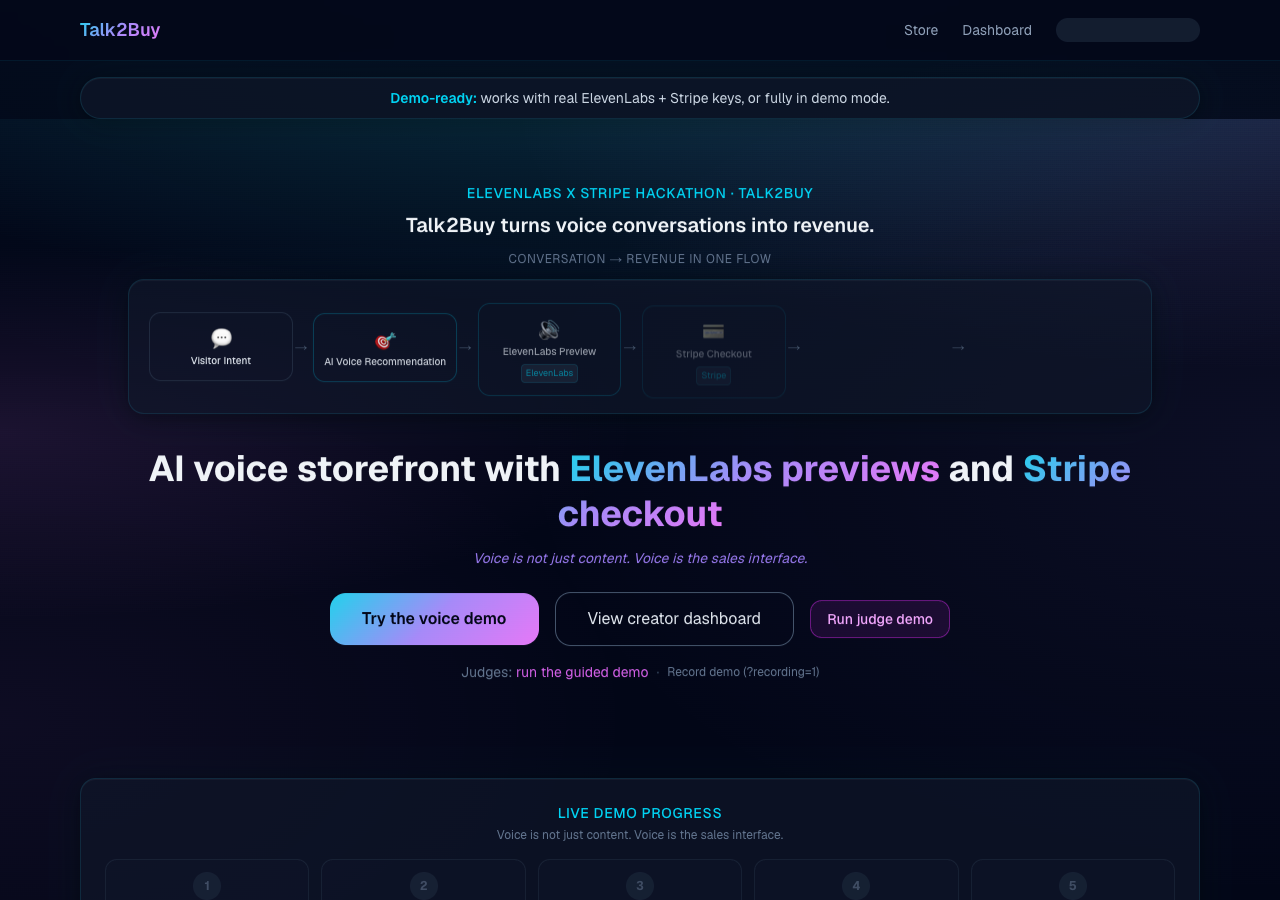
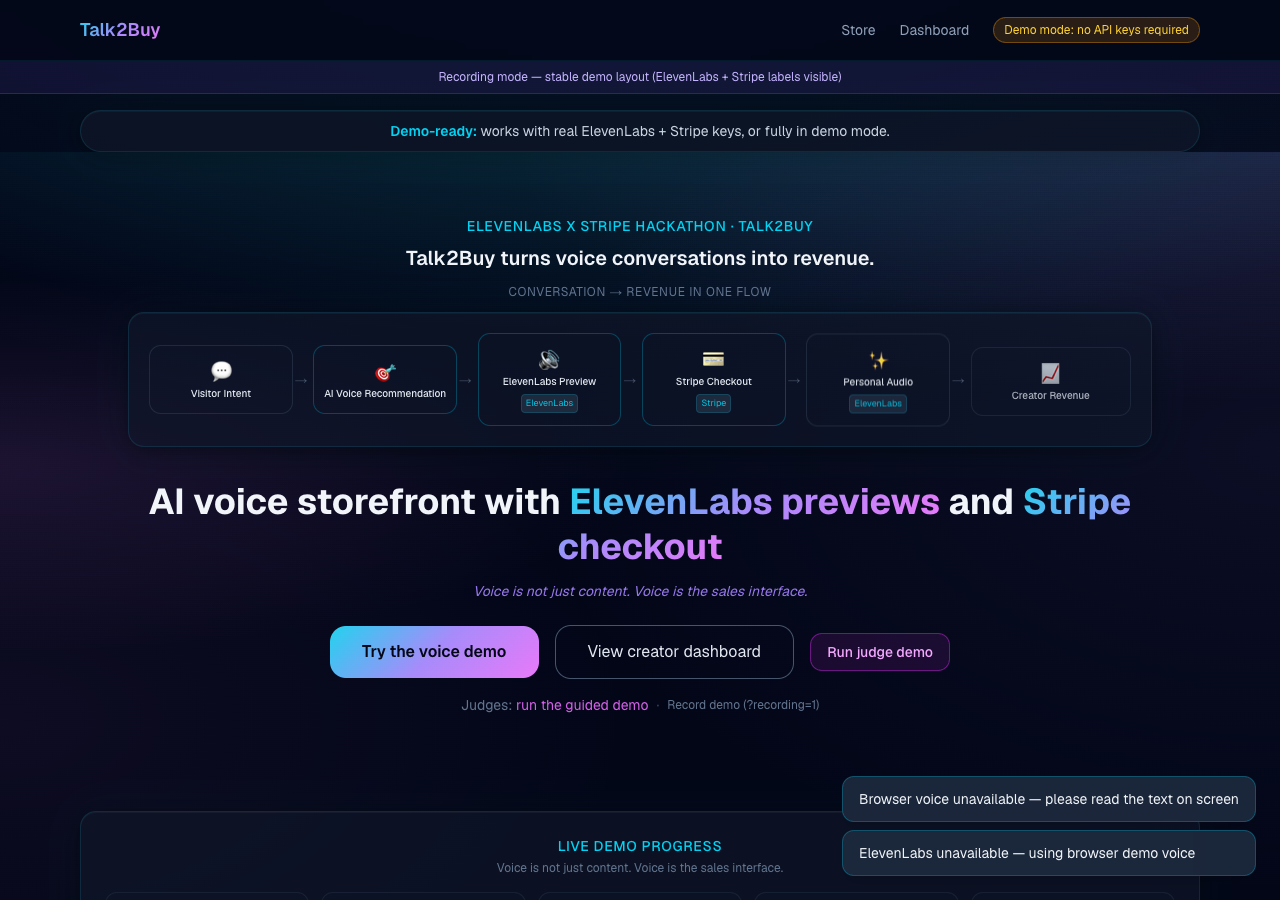
Complete final pre-submission pass for deployment readiness.
Fix VoiceOrb idle timing during browser TTS, add SUBMISSION_URLS hub, refresh screenshots, and tighten hero banner spacing.

diff --git a/src/components/DemoReadinessBanner.tsx b/src/components/DemoReadinessBanner.tsx
@@ -1,7 +1,7 @@
 export function DemoReadinessBanner() {
   return (
-    <div className="max-w-6xl mx-auto px-4 pt-4">
-      <p className="text-center text-sm text-slate-300 glass-card rounded-full py-2.5 px-4 border border-cyan-500/25">
+    <div className="max-w-6xl mx-auto px-4 pt-3 pb-0">
+      <p className="text-center text-xs md:text-sm text-slate-300 glass-card rounded-full py-2 px-4 border border-cyan-500/25">
         <span className="text-cyan-400 font-semibold">Demo-ready:</span> works with real
         ElevenLabs + Stripe keys, or fully in demo mode.
       </p>

diff --git a/src/components/RecommendationCard.tsx b/src/components/RecommendationCard.tsx
@@ -78,7 +78,6 @@ export function RecommendationCard({
       });
     } finally {
       setSampleLoading(false);
-      onVoiceStateChange?.("idle");
     }
   }
 

diff --git a/SUBMISSION_URLS.md b/SUBMISSION_URLS.md
@@ -1,0 +1,16 @@
+# Talk2Buy — Submission URLs
+
+Update this file once, then sync links in README and HACKATHON_SUBMISSION.
+
+| Resource | URL |
+|----------|-----|
+| GitHub | https://github.com/dorakingx/talk2buy-storefront |
+| Live demo | https://YOUR-APP.vercel.app *(replace after Vercel deploy)* |
+| Demo video | *(add YouTube or Loom link after recording)* |
+
+## After deploy
+
+1. Set `NEXT_PUBLIC_APP_URL` on Vercel to your production URL.
+2. Replace `YOUR-APP.vercel.app` above with the real hostname.
+3. Copy the live demo URL into [README.md](README.md) and [HACKATHON_SUBMISSION.md](HACKATHON_SUBMISSION.md).
+4. Add your demo video link when the 60–90s recording is uploaded.

diff --git a/HACKATHON_SUBMISSION.md b/HACKATHON_SUBMISSION.md
@@ -42,15 +42,16 @@ Record with `?recording=1` for stable layout.
 
 ## Links
 
+See [SUBMISSION_URLS.md](SUBMISSION_URLS.md) for the canonical list (update live demo after Vercel deploy).
+
 | Resource | URL |
 |----------|-----|
 | GitHub | https://github.com/dorakingx/talk2buy-storefront |
-| Live demo | Deploy to Vercel — set `NEXT_PUBLIC_APP_URL` to `https://YOUR-APP.vercel.app` |
-| Demo video | Add YouTube/Loom link after recording |
+| Live demo | https://YOUR-APP.vercel.app *(set in SUBMISSION_URLS.md after deploy)* |
+| Demo video | Add YouTube/Loom link in SUBMISSION_URLS.md after recording |
 
 ## Before submit
 
+- [SUBMISSION_URLS.md](SUBMISSION_URLS.md)
 - [DEPLOYMENT_CHECKLIST.md](DEPLOYMENT_CHECKLIST.md)
 - [DEMO_SCRIPT.md](DEMO_SCRIPT.md)
-
-Replace `YOUR-APP` and video `TBD` before final submission.

diff --git a/README.md b/README.md
@@ -8,6 +8,8 @@ Built with **ElevenLabs** · Powered by **Stripe** · **Demo mode** available
 
 Built for the **ElevenLabs x Stripe** hackathon. Judges: see [HACKATHON_SUBMISSION.md](HACKATHON_SUBMISSION.md).
 
+**Links:** [SUBMISSION_URLS.md](SUBMISSION_URLS.md) (live demo + video — update after deploy)
+
 ## Quick start
 
 ```bash
@@ -50,7 +52,7 @@ Recording tip: use [http://localhost:3000/?recording=1](http://localhost:3000/?r
 1. Import [github.com/dorakingx/talk2buy-storefront](https://github.com/dorakingx/talk2buy-storefront)
 2. Add variables from `.env.example`
 3. Set `NEXT_PUBLIC_APP_URL` to `https://YOUR-APP.vercel.app`
-4. Update live demo URL in README and HACKATHON_SUBMISSION after deploy
+4. Update [SUBMISSION_URLS.md](SUBMISSION_URLS.md) with your Vercel URL, then sync README / HACKATHON
 
 ## Pre-submission checklist
 
@@ -70,6 +72,7 @@ See [DEPLOYMENT_CHECKLIST.md](DEPLOYMENT_CHECKLIST.md) for full QA steps.
 |------|---------|
 | [HACKATHON_SUBMISSION.md](HACKATHON_SUBMISSION.md) | Judge-facing summary |
 | [DEMO_SCRIPT.md](DEMO_SCRIPT.md) | Video script |
+| [SUBMISSION_URLS.md](SUBMISSION_URLS.md) | Live demo + video links (single place to edit) |
 | [DEPLOYMENT_CHECKLIST.md](DEPLOYMENT_CHECKLIST.md) | Lint, build, deploy, QA |
 
 ## License

diff --git a/DEPLOYMENT_CHECKLIST.md b/DEPLOYMENT_CHECKLIST.md
@@ -45,8 +45,8 @@ Copy `.env.example` to `.env.local` and set as needed:
 
 ## Pre-submission
 
-- [ ] Replace `YOUR-APP.vercel.app` in README and HACKATHON_SUBMISSION with real deploy URL
-- [ ] Add demo video link (no `TBD` in submission docs)
+- [ ] Update [SUBMISSION_URLS.md](SUBMISSION_URLS.md) with real Vercel URL (sync README / HACKATHON)
+- [ ] Add demo video link in SUBMISSION_URLS.md after recording
 - [ ] Screenshots committed under `docs/screenshots/`
 - [ ] GitHub repo is public
 